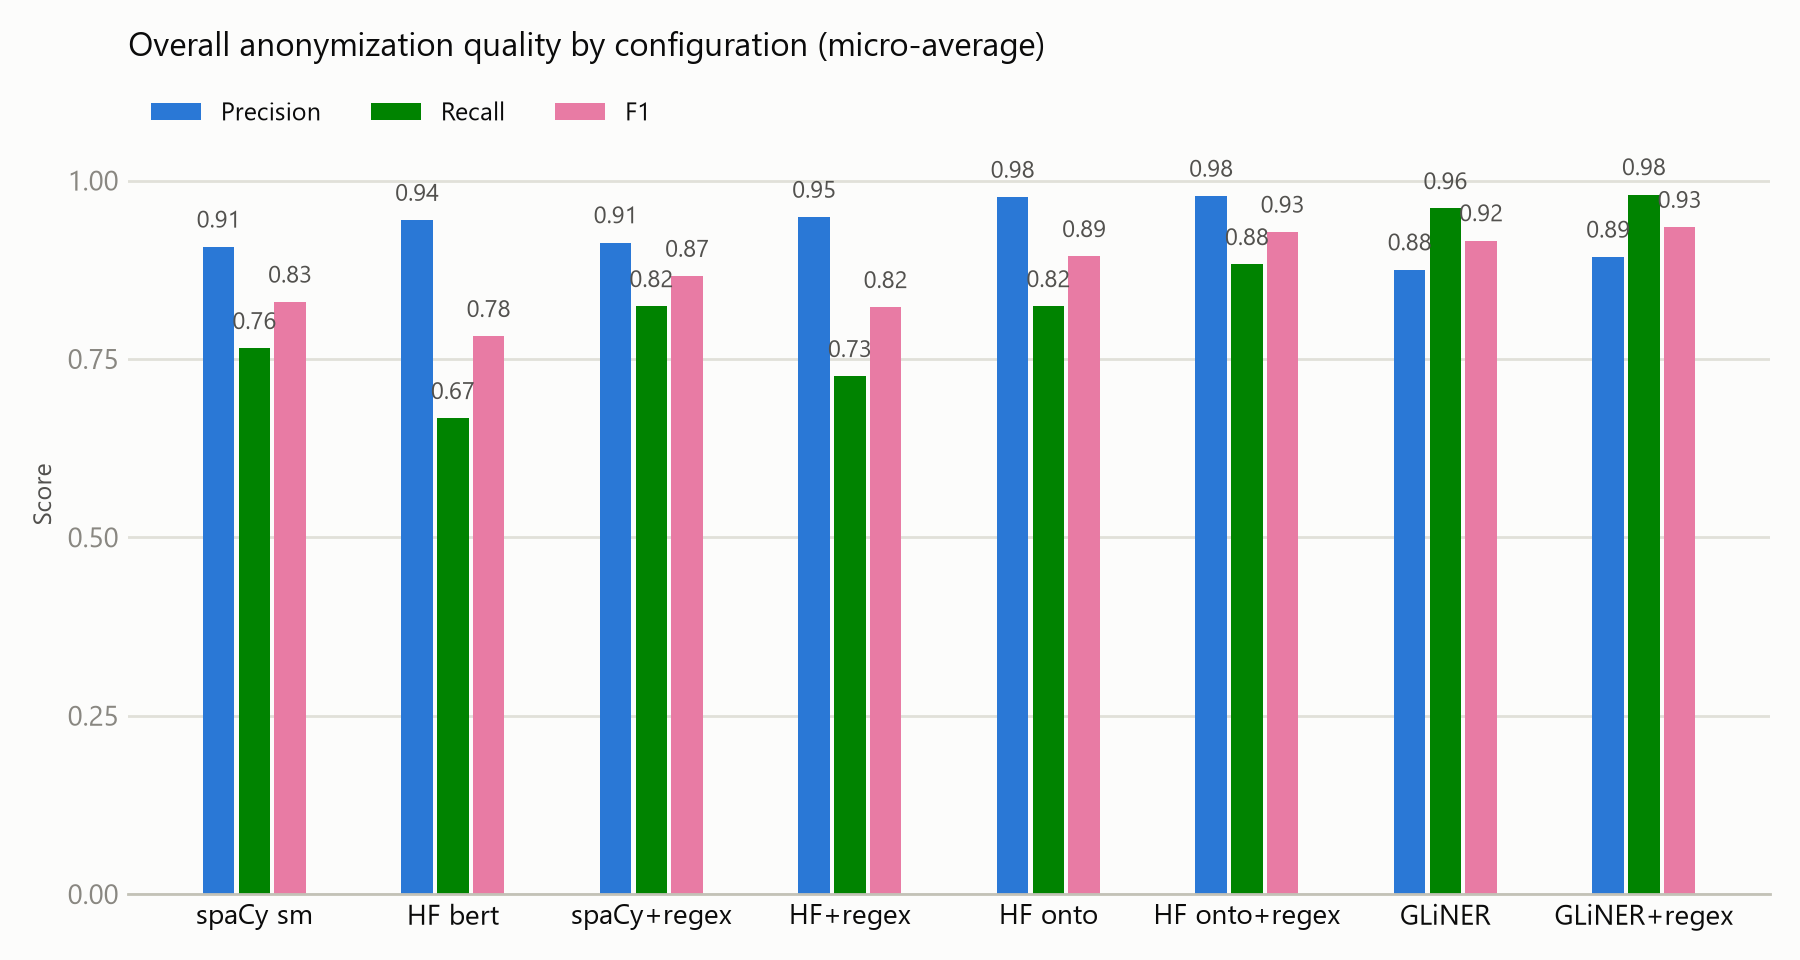
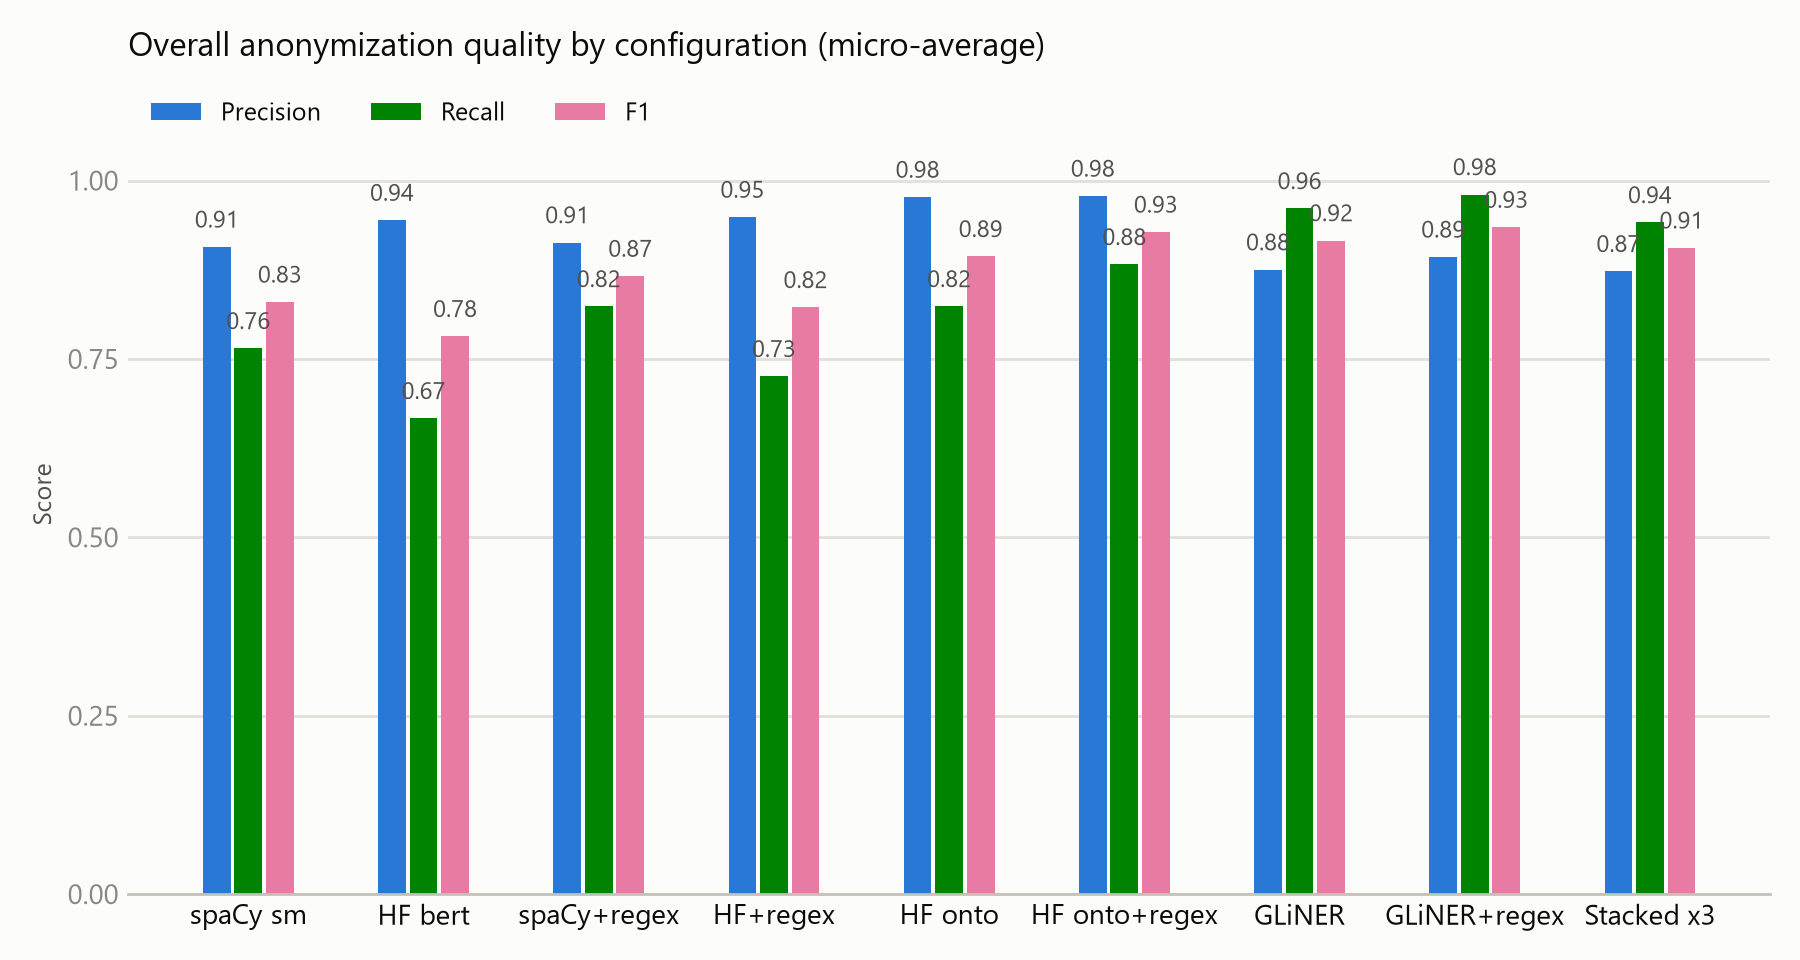
Document the detection method chosen for each entity
Add a section to the generated report giving, per label, how it is
detected and why that method was chosen over the alternatives, plus the
form-versus-meaning reasoning the split follows from.

diff --git a/src/anonymizer/report.py b/src/anonymizer/report.py
@@ -119,6 +119,103 @@ def configuration_table(configurations) -> str:
     )
 
 
+# How each of the twelve labels is actually detected in the delivered tool, and the
+# reason that method was chosen over the alternatives. Ordered as scoring.LABELS.
+ENTITY_METHODS = [
+    (
+        "PERSON",
+        "NER model",
+        "A name is a name because of where it sits in a sentence, not its shape. "
+        "No pattern can express that. Every model detects it well (F1 0.90 to 1.00).",
+    ),
+    (
+        "ORG",
+        "NER model",
+        "Same reason as PERSON, but harder: an organisation name is often an "
+        "ordinary word. This is the weakest of the model-detected labels (0.77) and "
+        "the main remaining source of confusion with PERSON.",
+    ),
+    (
+        "JOB",
+        "Zero-shot model",
+        "Absent from every standard NER scheme, so a fine-tuned model scores 0.00 "
+        "no matter how good it is. A zero-shot model is given the label name at "
+        "inference time instead, which takes it from 0.00 to 0.91.",
+    ),
+    (
+        "EMAIL_ADDRESS",
+        "Rule",
+        "Fully specified by its form. A pattern reaches 1.00, while the zero-shot "
+        "model reaches 0.67 on the same data, so a rule is both better and cheaper.",
+    ),
+    (
+        "LOCATION",
+        "NER model, plus a rule for postal codes",
+        "Place names need a model. Postal codes are the exception: the models "
+        "consistently return the town but not the digits in front of it, so a narrow "
+        "rule fills that gap. It requires a following capitalised word, so a bare "
+        "year is not mistaken for a postal code.",
+    ),
+    (
+        "AMOUNT",
+        "NER model, chosen for its label scheme",
+        "Solved by choosing the right model rather than by writing a rule. CoNLL "
+        "has no money class and scores 0.00; the OntoNotes model scores 1.00 on the "
+        "same texts, including the European formats that defeat the smaller "
+        "pipeline. Currency writing varies far too much to enumerate by hand.",
+    ),
+    (
+        "DATE_TIME",
+        "NER model",
+        "The models read machine timestamps as well as written dates, so no rule is "
+        "needed. An earlier hand-written telephone pattern matched the leading "
+        "'2022-12-27 08' of a timestamp and split it in half; validating telephone "
+        "numbers properly removed the collision and the label rose to 0.93.",
+    ),
+    (
+        "UNIVERSITY",
+        "Zero-shot model",
+        "Like JOB, absent from standard schemes, so 0.00 everywhere until asked for "
+        "by name. Then 0.86.",
+    ),
+    (
+        "PHONE_NUMBER",
+        "phonenumbers (libphonenumber)",
+        "The one identifier that is parsed and validated rather than matched. A "
+        "pattern loose enough to accept the many ways a number is written also "
+        "matches timestamps and national numbers; validation removes that whole "
+        "class of collision, and covers every country rather than a chosen few.",
+    ),
+    (
+        "URL",
+        "Rule",
+        "Fully specified by its form, and the zero-shot model scores 0.00 on it. "
+        "The pattern requires a scheme or www. so ordinary words never match, and "
+        "excludes sentence punctuation from the end of a path.",
+    ),
+    (
+        "IBAN",
+        "Rule, with python-stdnum for check digits",
+        "Models score 0.00: an account number carries no linguistic signal. The "
+        "shape is matched first, before telephone numbers, because an IBAN contains "
+        "a run of digits that is a plausible number on its own.",
+    ),
+    (
+        "SSN",
+        "Rule, with python-stdnum for check digits",
+        "Same as IBAN. National identifier formats differ per country, so the "
+        "library supplies the structures rather than one developer's guesses.",
+    ),
+]
+
+
+def entity_method_table() -> str:
+    return markdown_table(
+        ["Entity", "How it is detected", "Why"],
+        [[label, method, why] for label, method, why in ENTITY_METHODS],
+    )
+
+
 def build(
     core: dict[str, scoring.Report],
     extended: dict[str, scoring.Report],
@@ -256,9 +353,9 @@ pipeline therefore wins overall, on coverage rather than on quality.
 A rule layer for fixed-shape identifiers was added as an engineering step. It is
 **not** part of the model comparison above, and mixing the two would be misleading:
 
-- The rules can only ever produce **5 of the 12 labels** (email, URL, phone, IBAN,
-  national number). They contribute nothing to people, organisations, locations,
-  dates or amounts.
+- The rules can only ever produce **6 of the 12 labels** (email, URL, telephone,
+  IBAN, national number, and postal codes within a location). They contribute
+  nothing to people, organisations, job titles, dates or amounts.
 - Adding the same rule layer to both models adds the same easy wins to both, which
   raises both scores and narrows the visible gap between them.
 - In principle the rules could also mask a model's detections, since they take
@@ -291,6 +388,35 @@ delivered tool combines them even though the comparison above does not.
 
 {per_label_table(core)}
 {extended_section}
+## How each entity is detected, and why
+
+Everything above compares configurations. This is the conclusion drawn from them:
+for each of the twelve labels, the method the delivered tool uses and the reason it
+was chosen.
+
+The division is not arbitrary. It follows from whether a label is identifiable by
+its **form** or by its **meaning**. An IBAN is an IBAN whatever sentence surrounds
+it, so a rule reads it perfectly and a model reads it not at all. A person's name is
+only a name because of the words around it, so the reverse holds. Two labels, JOB
+and UNIVERSITY, belong to neither group: they are meaning-based but missing from
+every standard NER scheme, which is what a zero-shot model exists to solve.
+
+{entity_method_table()}
+
+Where a standard exists, the standard's own library does the work rather than a
+pattern invented here: `phonenumbers` for telephone numbers, `python-stdnum` for
+account and national numbers. This is a correctness decision, not a convenience
+one. Those libraries encode per-country structure and check digits that no
+hand-written pattern reproduces, and they were what fixed the timestamp collision.
+
+Check digits are **reported alongside a detection and never used to reject one**.
+The reasoning is the same as everywhere else in this task: a mistyped account number
+is still an account number, so redacting it costs nothing while missing it is a leak.
+The best illustration is `BE68 5390 0754 7034`, the example IBAN that appears in most
+documentation. It passes the international mod-97 check but fails Belgium's own
+account-number rule, so validating before redacting would have discarded a textbook
+account number.
+
 ## How the scoring works
 
 The anonymized RESULT is compared against the EXPECTED answer by aligning the two

diff --git a/report/REPORT.md b/report/REPORT.md
@@ -45,9 +45,9 @@ pipeline therefore wins overall, on coverage rather than on quality.
 A rule layer for fixed-shape identifiers was added as an engineering step. It is
 **not** part of the model comparison above, and mixing the two would be misleading:
 
-- The rules can only ever produce **5 of the 12 labels** (email, URL, phone, IBAN,
-  national number). They contribute nothing to people, organisations, locations,
-  dates or amounts.
+- The rules can only ever produce **6 of the 12 labels** (email, URL, telephone,
+  IBAN, national number, and postal codes within a location). They contribute
+  nothing to people, organisations, job titles, dates or amounts.
 - Adding the same rule layer to both models adds the same easy wins to both, which
   raises both scores and narrows the visible gap between them.
 - In principle the rules could also mask a model's detections, since they take
@@ -60,8 +60,8 @@ So the numbers below describe a **system**, not a model.
 
 | Configuration | Detectors (priority order) |
 |---|---|
-| spaCy+regex | regex rules + en_core_web_sm |
-| HF+regex | regex rules + dslim/bert-base-NER |
+| spaCy+regex | rules + phonenumbers/stdnum + en_core_web_sm |
+| HF+regex | rules + phonenumbers/stdnum + dslim/bert-base-NER |
 
 | Configuration | Precision | Recall | F1 | Exact rows |
 |---|---|---|---|---|
@@ -112,9 +112,10 @@ not change any number above.
 | Configuration | Detectors (priority order) |
 |---|---|
 | HF onto | djagatiya/ner-roberta-base-ontonotesv5-englishv4 |
-| HF onto+regex | regex rules + djagatiya/ner-roberta-base-ontonotesv5-englishv4 |
+| HF onto+regex | rules + phonenumbers/stdnum + djagatiya/ner-roberta-base-ontonotesv5-englishv4 |
 | GLiNER | urchade/gliner_base |
-| GLiNER+regex | regex rules + urchade/gliner_base |
+| GLiNER+regex | rules + phonenumbers/stdnum + urchade/gliner_base |
+| Stacked x3 | rules + phonenumbers/stdnum + djagatiya/ner-roberta-base-ontonotesv5-englishv4 + urchade/gliner_base |
 
 ### Objection 1: was the transformer beaten by its architecture, or by its labels?
 
@@ -181,21 +182,22 @@ and no rule layer involved:
 | HF onto+regex | 0.98 | 0.88 | 0.93 | 0/10 |
 | GLiNER | 0.88 | 0.96 | 0.92 | 2/10 |
 | GLiNER+regex | 0.89 | 0.98 | 0.93 | 3/10 |
+| Stacked x3 | 0.87 | 0.94 | 0.91 | 0/10 |
 
 ![F1 per entity label, all configurations](all_per_label_f1.png)
 
-| Label (F1) | spaCy sm | HF bert | spaCy+regex | HF+regex | HF onto | HF onto+regex | GLiNER | GLiNER+regex |
-|---|---|---|---|---|---|---|---|---|
-| PERSON | 1.00 | 1.00 | 1.00 | 1.00 | 1.00 | 1.00 | 1.00 | 1.00 |
-| ORG | 0.75 | 0.94 | 0.75 | 0.94 | 0.94 | 0.94 | 0.84 | 0.89 |
-| JOB | 0.00 | 0.00 | 0.00 | 0.00 | 0.00 | 0.00 | 0.67 | 0.67 |
-| EMAIL_ADDRESS | 0.00 | 0.00 | 1.00 | 1.00 | 0.00 | 1.00 | 1.00 | 1.00 |
-| LOCATION | 0.89 | 0.95 | 0.89 | 0.95 | 0.95 | 0.95 | 0.95 | 0.95 |
-| AMOUNT | 1.00 | 0.00 | 1.00 | 0.00 | 1.00 | 1.00 | 1.00 | 1.00 |
-| DATE_TIME | 0.88 | 0.00 | 0.88 | 0.00 | 0.93 | 0.93 | 1.00 | 1.00 |
-| UNIVERSITY | 0.00 | 0.00 | 0.00 | 0.00 | 0.00 | 0.00 | 1.00 | 1.00 |
-| PHONE_NUMBER | 0.00 | 0.00 | 1.00 | 1.00 | 0.00 | 1.00 | 0.67 | 0.67 |
-| URL | 0.00 | 0.00 | 1.00 | 1.00 | 0.00 | 1.00 | 0.00 | 1.00 |
+| Label (F1) | spaCy sm | HF bert | spaCy+regex | HF+regex | HF onto | HF onto+regex | GLiNER | GLiNER+regex | Stacked x3 |
+|---|---|---|---|---|---|---|---|---|---|
+| PERSON | 1.00 | 1.00 | 1.00 | 1.00 | 1.00 | 1.00 | 1.00 | 1.00 | 1.00 |
+| ORG | 0.75 | 0.94 | 0.75 | 0.94 | 0.94 | 0.94 | 0.84 | 0.89 | 0.84 |
+| JOB | 0.00 | 0.00 | 0.00 | 0.00 | 0.00 | 0.00 | 0.67 | 0.67 | 0.67 |
+| EMAIL_ADDRESS | 0.00 | 0.00 | 1.00 | 1.00 | 0.00 | 1.00 | 1.00 | 1.00 | 1.00 |
+| LOCATION | 0.89 | 0.95 | 0.89 | 0.95 | 0.95 | 0.95 | 0.95 | 0.95 | 0.95 |
+| AMOUNT | 1.00 | 0.00 | 1.00 | 0.00 | 1.00 | 1.00 | 1.00 | 1.00 | 1.00 |
+| DATE_TIME | 0.88 | 0.00 | 0.88 | 0.00 | 0.93 | 0.93 | 1.00 | 1.00 | 0.93 |
+| UNIVERSITY | 0.00 | 0.00 | 0.00 | 0.00 | 0.00 | 0.00 | 1.00 | 1.00 | 0.00 |
+| PHONE_NUMBER | 0.00 | 0.00 | 1.00 | 1.00 | 0.00 | 1.00 | 0.67 | 0.67 | 0.67 |
+| URL | 0.00 | 0.00 | 1.00 | 1.00 | 0.00 | 1.00 | 0.00 | 1.00 | 1.00 |
 
 - Highest F1: **GLiNER+regex** at 0.93.
 - Highest recall: **GLiNER+regex** at 0.98, and recall is the
@@ -204,6 +206,48 @@ and no rule layer involved:
   because that model tends to include trailing punctuation inside an entity. Exact
   match is unforgiving of boundaries in a way that per-label scoring is not, which is
   a good illustration of why more than one measure is reported.
+
+## How each entity is detected, and why
+
+Everything above compares configurations. This is the conclusion drawn from them:
+for each of the twelve labels, the method the delivered tool uses and the reason it
+was chosen.
+
+The division is not arbitrary. It follows from whether a label is identifiable by
+its **form** or by its **meaning**. An IBAN is an IBAN whatever sentence surrounds
+it, so a rule reads it perfectly and a model reads it not at all. A person's name is
+only a name because of the words around it, so the reverse holds. Two labels, JOB
+and UNIVERSITY, belong to neither group: they are meaning-based but missing from
+every standard NER scheme, which is what a zero-shot model exists to solve.
+
+| Entity | How it is detected | Why |
+|---|---|---|
+| PERSON | NER model | A name is a name because of where it sits in a sentence, not its shape. No pattern can express that. Every model detects it well (F1 0.90 to 1.00). |
+| ORG | NER model | Same reason as PERSON, but harder: an organisation name is often an ordinary word. This is the weakest of the model-detected labels (0.77) and the main remaining source of confusion with PERSON. |
+| JOB | Zero-shot model | Absent from every standard NER scheme, so a fine-tuned model scores 0.00 no matter how good it is. A zero-shot model is given the label name at inference time instead, which takes it from 0.00 to 0.91. |
+| EMAIL_ADDRESS | Rule | Fully specified by its form. A pattern reaches 1.00, while the zero-shot model reaches 0.67 on the same data, so a rule is both better and cheaper. |
+| LOCATION | NER model, plus a rule for postal codes | Place names need a model. Postal codes are the exception: the models consistently return the town but not the digits in front of it, so a narrow rule fills that gap. It requires a following capitalised word, so a bare year is not mistaken for a postal code. |
+| AMOUNT | NER model, chosen for its label scheme | Solved by choosing the right model rather than by writing a rule. CoNLL has no money class and scores 0.00; the OntoNotes model scores 1.00 on the same texts, including the European formats that defeat the smaller pipeline. Currency writing varies far too much to enumerate by hand. |
+| DATE_TIME | NER model | The models read machine timestamps as well as written dates, so no rule is needed. An earlier hand-written telephone pattern matched the leading '2022-12-27 08' of a timestamp and split it in half; validating telephone numbers properly removed the collision and the label rose to 0.93. |
+| UNIVERSITY | Zero-shot model | Like JOB, absent from standard schemes, so 0.00 everywhere until asked for by name. Then 0.86. |
+| PHONE_NUMBER | phonenumbers (libphonenumber) | The one identifier that is parsed and validated rather than matched. A pattern loose enough to accept the many ways a number is written also matches timestamps and national numbers; validation removes that whole class of collision, and covers every country rather than a chosen few. |
+| URL | Rule | Fully specified by its form, and the zero-shot model scores 0.00 on it. The pattern requires a scheme or www. so ordinary words never match, and excludes sentence punctuation from the end of a path. |
+| IBAN | Rule, with python-stdnum for check digits | Models score 0.00: an account number carries no linguistic signal. The shape is matched first, before telephone numbers, because an IBAN contains a run of digits that is a plausible number on its own. |
+| SSN | Rule, with python-stdnum for check digits | Same as IBAN. National identifier formats differ per country, so the library supplies the structures rather than one developer's guesses. |
+
+Where a standard exists, the standard's own library does the work rather than a
+pattern invented here: `phonenumbers` for telephone numbers, `python-stdnum` for
+account and national numbers. This is a correctness decision, not a convenience
+one. Those libraries encode per-country structure and check digits that no
+hand-written pattern reproduces, and they were what fixed the timestamp collision.
+
+Check digits are **reported alongside a detection and never used to reject one**.
+The reasoning is the same as everywhere else in this task: a mistyped account number
+is still an account number, so redacting it costs nothing while missing it is a leak.
+The best illustration is `BE68 5390 0754 7034`, the example IBAN that appears in most
+documentation. It passes the international mod-97 check but fails Belgium's own
+account-number rule, so validating before redacting would have discarded a textbook
+account number.
 
 ## How the scoring works
 
@@ -370,3 +414,19 @@ Every value plotted above, per configuration.
 | PHONE_NUMBER | 1 | 1 | 0 | 0.50 | 1.00 | 0.67 |
 | URL | 1 | 0 | 0 | 1.00 | 1.00 | 1.00 |
 | **micro-average** | 50 | 6 | 1 | 0.89 | 0.98 | 0.93 |
+
+### Stacked x3
+
+| Label | TP | FP | FN | Precision | Recall | F1 |
+|---|---|---|---|---|---|---|
+| PERSON | 7 | 0 | 0 | 1.00 | 1.00 | 1.00 |
+| ORG | 8 | 3 | 0 | 0.73 | 1.00 | 0.84 |
+| JOB | 2 | 2 | 0 | 0.50 | 1.00 | 0.67 |
+| EMAIL_ADDRESS | 1 | 0 | 0 | 1.00 | 1.00 | 1.00 |
+| LOCATION | 19 | 1 | 1 | 0.95 | 0.95 | 0.95 |
+| AMOUNT | 2 | 0 | 0 | 1.00 | 1.00 | 1.00 |
+| DATE_TIME | 7 | 0 | 1 | 1.00 | 0.88 | 0.93 |
+| UNIVERSITY | 0 | 0 | 1 | 0.00 | 0.00 | 0.00 |
+| PHONE_NUMBER | 1 | 1 | 0 | 0.50 | 1.00 | 0.67 |
+| URL | 1 | 0 | 0 | 1.00 | 1.00 | 1.00 |
+| **micro-average** | 48 | 7 | 3 | 0.87 | 0.94 | 0.91 |